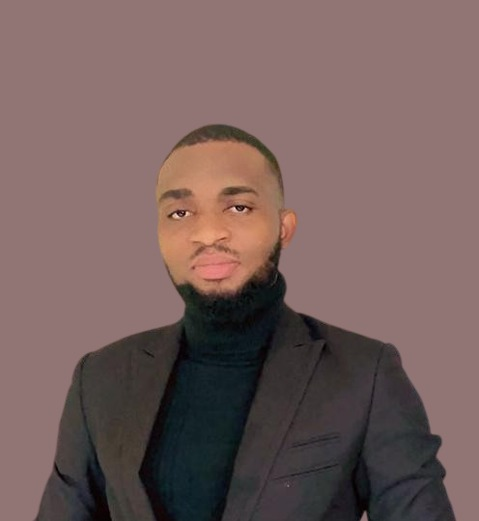
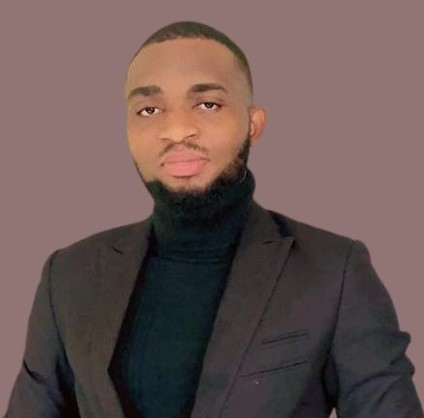
updates

Changed region(s): [[0.0, 0.0311, 1.0, 1.0], [0.7358, 0.7464, 0.8278, 1.0]]

diff --git a/index.html b/index.html
@@ -205,14 +205,19 @@
               <h3 class="section-title">Our Services</h3>
               <div class="section-title-divider"></div>
               <p class="section-description">
-                The phrase "If you can think it, we can make it happen." Is no joke, but coming back to reality, here are some of the areas we excel at.              </p>
+                The phrase "If you can think it, we can make it happen." Is no
+                joke, but coming back to reality, here are some of the areas we
+                excel at.
+              </p>
             </div>
           </div>
 
           <div class="row" data-aos="fade-up" data-aos-delay="200">
             <div class="col-lg-4 col-md-6 service-item">
               <div class="service-icon"><i class="bi bi-briefcase"></i></div>
-              <h4 class="service-title"><a href="">Lorem Ipsum</a></h4>
+              <h4 class="service-title">
+                <a href="">mobile App development</a>
+              </h4>
               <p class="service-description">
                 Voluptatum deleniti atque corrupti quos dolores et quas
                 molestias excepturi sint occaecati cupiditate non provident
@@ -222,7 +227,7 @@
               <div class="service-icon">
                 <i class="bi bi-card-checklist"></i>
               </div>
-              <h4 class="service-title"><a href="">Dolor Sitema</a></h4>
+              <h4 class="service-title"><a href="">web development</a></h4>
               <p class="service-description">
                 Minim veniam, quis nostrud exercitation ullamco laboris nisi ut
                 aliquip ex ea commodo consequat tarad limino ata
@@ -230,7 +235,9 @@
             </div>
             <div class="col-lg-4 col-md-6 service-item">
               <div class="service-icon"><i class="bi bi-bar-chart"></i></div>
-              <h4 class="service-title"><a href="">Sed ut perspiciatis</a></h4>
+              <h4 class="service-title">
+                <a href="">serach engine optimization</a>
+              </h4>
               <p class="service-description">
                 Duis aute irure dolor in reprehenderit in voluptate velit esse
                 cillum dolore eu fugiat nulla pariatur
@@ -238,7 +245,9 @@
             </div>
             <div class="col-lg-4 col-md-6 service-item">
               <div class="service-icon"><i class="bi bi-binoculars"></i></div>
-              <h4 class="service-title"><a href="">Magni Dolores</a></h4>
+              <h4 class="service-title">
+                <a href="">graphic and web design</a>
+              </h4>
               <p class="service-description">
                 Excepteur sint occaecat cupidatat non proident, sunt in culpa
                 qui officia deserunt mollit anim id est laborum
@@ -248,13 +257,13 @@
               <div class="service-icon">
                 <i class="bi bi-brightness-high"></i>
               </div>
-              <h4 class="service-title"><a href="">Nemo Enim</a></h4>
+              <h4 class="service-title"><a href="">Consultation</a></h4>
               <p class="service-description">
                 At vero eos et accusamus et iusto odio dignissimos ducimus qui
                 blanditiis praesentium voluptatum deleniti atque
               </p>
             </div>
-            <div class="col-lg-4 col-md-6 service-item">
+            <!-- <div class="col-lg-4 col-md-6 service-item">
               <div class="service-icon">
                 <i class="bi bi-calendar4-week"></i>
               </div>
@@ -263,7 +272,7 @@
                 Et harum quidem rerum facilis est et expedita distinctio. Nam
                 libero tempore, cum soluta nobis est eligendi
               </p>
-            </div>
+            </div> -->
           </div>
         </div>
       </section>
